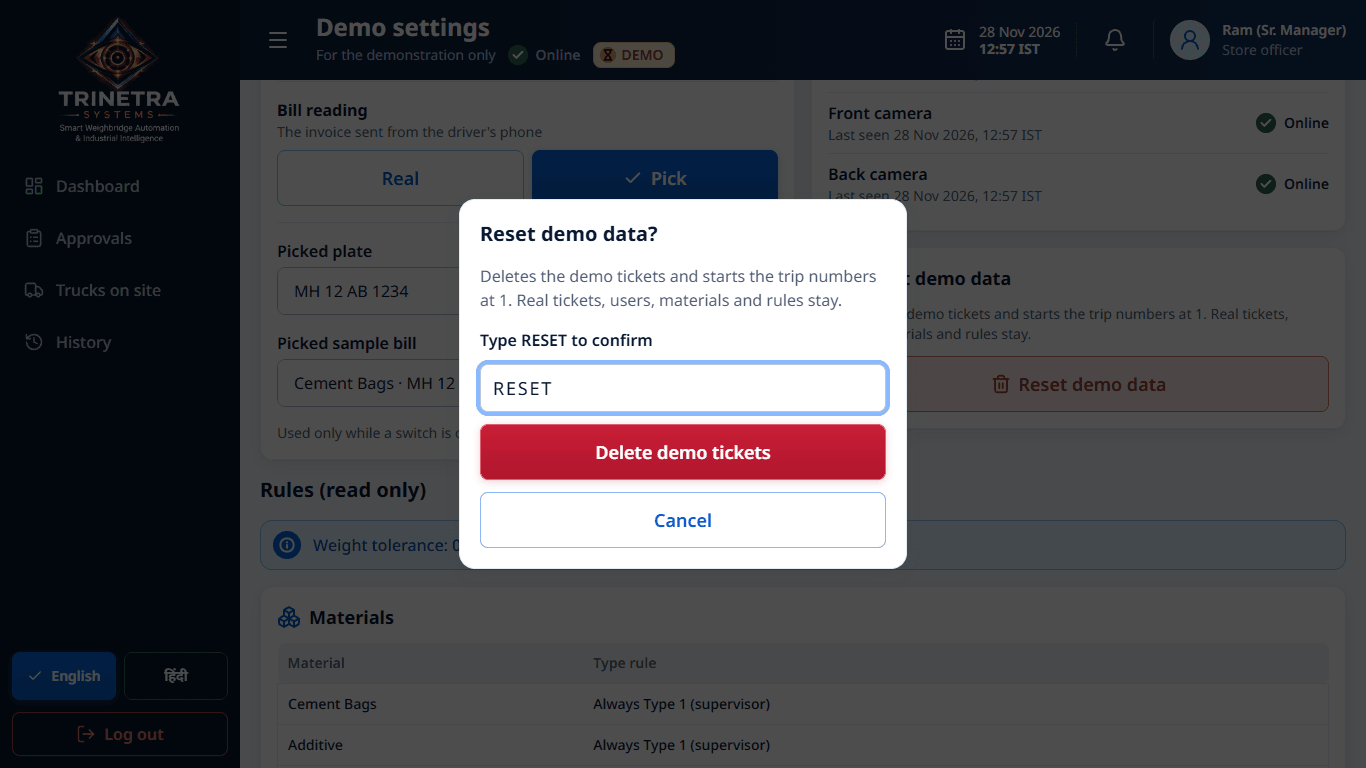
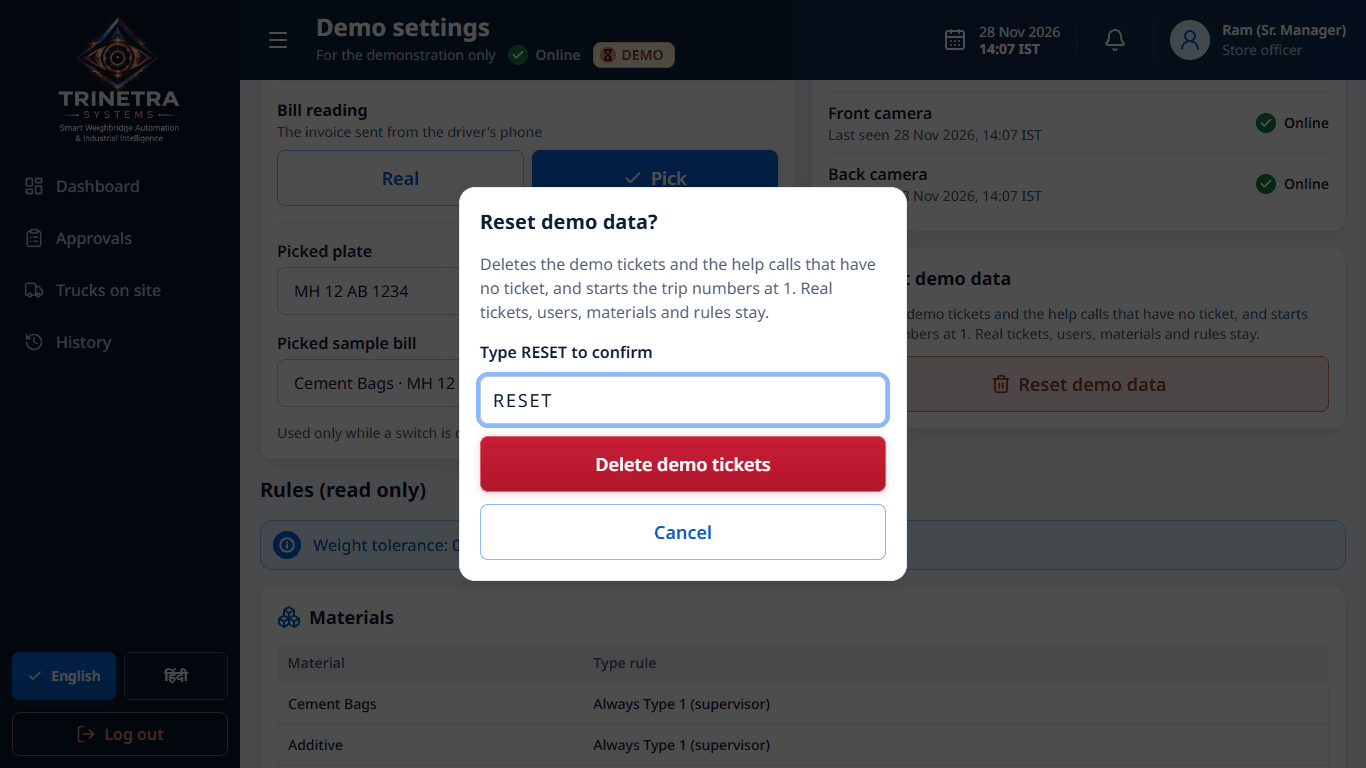
Reset demo data also deletes help calls that have no ticket
A call made before a plate was read belongs to no ticket, so it cannot be
tagged demo, and it stayed in the store officer's list after a reset. The
reset text on screen says so (English and Hindi).

Browser test helper: arrive() now waits for an empty bridge. It could open
the weighbridge while the previous test's truck was still driving off; the
screen then rightly reset when that truck had gone, undoing the tap on the
language.

Changed region(s): [[0.3382, 0.2188, 0.6764, 0.7812], [0.7379, 0.4062, 0.9531, 0.4375], [0.6764, 0.4062, 0.7072, 0.4375]]

diff --git a/tests/e2e/kiosk-world.ts b/tests/e2e/kiosk-world.ts
@@ -34,6 +34,7 @@ export class Weighbridge {
   private readonly model = new WeightModel();
   private readonly devices: SimDevice[] = [];
   private sender: NodeJS.Timeout | undefined;
+  private zerosSent = 0;
 
   start(): void {
     const url = `${BACKEND.replace("http", "ws")}/device`;
@@ -69,10 +70,16 @@ export class Weighbridge {
     this.devices.push(main, ...cameras);
     this.devices.forEach((device) => device.connect());
     this.model.leave(performance.now() - 60_000);
-    this.sender = setInterval(
-      () => main.send({ t: "w", ...this.model.read(performance.now()) }),
-      200,
-    );
+    this.sender = setInterval(() => {
+      const reading = this.model.read(performance.now());
+      main.send({ t: "w", ...reading });
+      this.zerosSent = reading.kg === 0 ? this.zerosSent + 1 : 0;
+    }, 200);
+  }
+
+  /** The backend has been told twice in a row that nothing is on the bridge. */
+  isEmpty(): boolean {
+    return this.zerosSent >= 2;
   }
 
   stop(): void {
@@ -312,6 +319,10 @@ async function atScreen(title: string, page: Page, run: () => Promise<void>) {
 
 /** A truck drives on: the screen wakes, and the driver chooses English. */
 export async function arrive(page: Page, bridge: Weighbridge, kg: number): Promise<void> {
+  // The truck of the test before may still be driving off. A screen opened then wakes for
+  // it, and resets under the driver's press when it has gone: wait for an empty bridge.
+  await expect.poll(() => bridge.isEmpty()).toBe(true);
+  await expect(page.getByTestId("bridge-status")).toContainText("Weighbridge ready");
   bridge.driveOn(kg);
   await expect(page.getByRole("button", { name: /^English/ }).first()).toBeVisible();
   await heading(page, "Language");

diff --git a/apps/server/src/tickets/demo-controls.ts b/apps/server/src/tickets/demo-controls.ts
@@ -7,7 +7,7 @@ import {
   type Room,
 } from "@trinetra/shared";
 import { SAMPLE_INVOICE_IDS } from "@trinetra/shared/seed";
-import { eq, inArray, sql } from "drizzle-orm";
+import { eq, inArray, isNull, sql } from "drizzle-orm";
 import type { FastifyInstance } from "fastify";
 import type { z } from "zod";
 import {
@@ -106,6 +106,9 @@ export async function changeDemoSettings(
  * Deletes the demo tickets with everything on them, and starts the trip numbers at 1
  * again. Real tickets are untouched, and ticket numbers are never used a second time.
  * Stored photo files stay: stored files are never removed.
+ *
+ * Help calls made before a ticket existed go too, waiting or answered. They belong to no
+ * ticket, so they cannot be tagged demo, and they would stay in the store officer's list.
  */
 export async function resetDemoData(app: FastifyInstance): Promise<{ deletedTickets: number }> {
   const deletedTickets = await app.db.transaction(async (tx) => {
@@ -126,6 +129,8 @@ export async function resetDemoData(app: FastifyInstance): Promise<{ deletedTick
       await tx.delete(photos).where(inArray(photos.ticketId, ids));
       await tx.delete(tickets).where(inArray(tickets.id, ids));
     }
+    // Only a help call can be without a ticket (the database checks it).
+    await tx.delete(approvals).where(isNull(approvals.ticketId));
     await saveSetting(tx, "trip_count_from", new Date().toISOString());
     return ids.length;
   });

diff --git a/apps/server/src/tickets/demo-controls.test.ts b/apps/server/src/tickets/demo-controls.test.ts
@@ -321,6 +321,29 @@ describe.skipIf(!testDatabaseUrl)("demo controls", { timeout: 30_000 }, () => {
       expect(after.ticketNo.endsWith("-0004")).toBe(true);
     });
 
+    it("removes help calls made before a ticket, but not one on a real ticket", async () => {
+      const callForHelp = async (body: object) => {
+        expect((await h.call("kiosk", "POST", "/api/help", body)).status).toBe(200);
+      };
+      // One that the store officer has answered, and one still waiting.
+      await callForHelp({});
+      const [answered] = await h.approvalRows();
+      await h.call("store", "POST", `/api/approvals/${answered!.id}/decide`, {
+        decision: "APPROVE",
+      });
+      await callForHelp({});
+      const real = await started();
+      await callForHelp({ ticketId: real });
+      expect((await h.approvalRows()).map((row) => row.ticketId)).toEqual([null, null, real]);
+
+      const response = await h.call("store", "POST", "/api/demo/reset");
+
+      expect(response.body).toEqual({ deletedTickets: 0 });
+      expect(await h.approvalRows()).toMatchObject([
+        { ticketId: real, kind: "DRIVER_HELP", status: "PENDING" },
+      ]);
+    });
+
     it("keeps the users and the master data, whoever resets", async () => {
       const counts = async () => {
         const result: Record<string, unknown> = {};

diff --git a/tests/e2e/manual-check-fixes.spec.ts b/tests/e2e/manual-check-fixes.spec.ts
@@ -92,8 +92,7 @@ test("the issues of the manual-style check stay fixed", async ({ page, browser }
   await home.goto("/store");
   await expect(home.getByTestId("connection")).toHaveText("Online");
   await expect(home.getByText("Tap the screen once")).toBeVisible();
-  // This truck's own request: an earlier test may have left a help call with no ticket,
-  // which "Reset demo data" does not delete.
+  // This truck's own request, whatever else is waiting.
   const mine = home
     .getByRole("table")
     .getByRole("row")

diff --git a/docs/PROGRESS.md b/docs/PROGRESS.md
@@ -387,6 +387,8 @@ Use two browser windows with **separate logins** (for example a normal and a pri
 
 ✅ Passed on 2026-11-28 **in the browser test only**: Playwright reads the address inside the slip's QR code at the real weighbridge screen, opens it in a second browser of 390×844 with no login, and sees the page change when the supervisor approves and after the second weighing. **No real phone has scanned a QR code.** The tests also cover the home page's three cards, wrong ticket addresses, the settings login and the supervisor being refused, each switch showing and hiding the DEMO badge on four open screens, and the reset with its typed word. All 53 browser tests, all six `pnpm journey` scenarios, typecheck, lint, format, the unit and API tests and the build passed. In the first full browser run one older test failed: it matched any "Open" link, and an earlier test leaves a help call with no ticket (which "Reset demo data" does not delete). It now opens its own truck's request. Pictures are in [screenshots/phase14](screenshots/phase14).
 
+**Fixed afterwards (2026-11-28):** "Reset demo data" now also deletes the help calls made before a ticket existed. The browser test that sometimes stayed on the language screen (here, and once in the manual-style check below this phase's work) was a fault in the test helper: it could open the weighbridge while the previous test's truck was still driving off. The weighbridge then rightly reset when that truck had gone, undoing the tap. `arrive()` now waits for an empty bridge.
+
 - **Not tried:** a real phone (scanning, printing or Save as PDF from the phone), a real printer. The print view was checked in Chrome's print mode at A4 width only.
 - **Not seen:** the usage warning from 80% on screen (the API tests cover the figures and the warning).
 - A ticket page address works for anyone who has it, and does not expire.

diff --git a/docs/HINDI_REVIEW.md b/docs/HINDI_REVIEW.md
@@ -693,7 +693,7 @@ New texts for the issues in [MANUAL_CHECK.md](MANUAL_CHECK.md). Not checked by a
 | `settings.lastSeen` | Last seen {time} | आखिरी बार {time} को दिखा |
 | `settings.neverSeen` | Not seen since the server started | सर्वर चालू होने के बाद से नहीं दिखा |
 | `settings.reset` | Reset demo data | डेमो डेटा रीसेट करें |
-| `settings.resetText` | Deletes the demo tickets and starts the trip numbers at 1. Real tickets, users, materials and rules stay. | डेमो टिकट मिट जाते हैं और ट्रिप नंबर 1 से शुरू होते हैं। असली टिकट, उपयोगकर्ता, सामग्री और नियम बने रहते हैं। |
+| `settings.resetText` | Deletes the demo tickets and the help calls that have no ticket, and starts the trip numbers at 1. Real tickets, users, materials and rules stay. | डेमो टिकट और बिना टिकट वाले मदद के बुलावे मिट जाते हैं, और ट्रिप नंबर 1 से शुरू होते हैं। असली टिकट, उपयोगकर्ता, सामग्री और नियम बने रहते हैं। |
 | `settings.resetTitle` | Reset demo data? | डेमो डेटा रीसेट करें? |
 | `settings.resetType` | Type {word} to confirm | पक्का करने के लिए {word} टाइप करें |
 | `settings.resetConfirm` | Delete demo tickets | डेमो टिकट मिटाएँ |

diff --git a/README.md b/README.md
@@ -179,7 +179,7 @@ A job abandons STARTED tickets with no activity for 10 minutes. The lights, buzz
 
 **Idempotency-Key:** any logged-in `POST`, `PATCH` or `PUT` may send this header. A repeat of a successful request gets the first answer again and nothing is done twice (kept in memory for 12 hours).
 
-**Demo routes:** the store officer uses them from the [demo settings page](#website). The helper scripts use the kiosk login: set `ADMIN_PIN` (6 to 12 digits) in `apps/server/.env`, restart the backend and send it in an `x-admin-pin` header. A simulated weight (`POST /api/demo/weight`) is only for the kiosk with the admin PIN. Tickets made while a demo switch is on are tagged demo, and only those are deleted by a reset.
+**Demo routes:** the store officer uses them from the [demo settings page](#website). The helper scripts use the kiosk login: set `ADMIN_PIN` (6 to 12 digits) in `apps/server/.env`, restart the backend and send it in an `x-admin-pin` header. A simulated weight (`POST /api/demo/weight`) is only for the kiosk with the admin PIN. Tickets made while a demo switch is on are tagged demo. A reset deletes only those tickets, and the help calls made before any ticket existed.
 
 ## Journeys
 

diff --git a/CLAUDE.md b/CLAUDE.md
@@ -108,7 +108,6 @@ Settle before the phases that need it:
 - **Open:** the backend keeps "truck on the bridge" and the plate reads in memory, so after a restart `truck:arrived` fires again (safe: it creates nothing) and the plate must be read again. Events missed while disconnected are not resent: pages reload over REST (`useOnReconnect`).
 - **Open:** logging out does not close the live connection of other open tabs; the server ends it when the 12 hour login expires. (Such a tab goes to the login when it next gets focus.)
 - **Open:** the kiosk's dialogs are not measured by the driver-rule check.
-- **Open:** "Reset demo data" does not delete help calls made before a ticket existed.
 - **To decide:** a visit that waits for a person now stays open until someone answers or cancels it, also overnight. While it is open, its plate cannot start a new ticket (the old one is carried on).
 - **Decided:** cancelling a visit does not block the plate (only a rejection does), also for a truck waiting for its supervisor or on HOLD.
 - **To decide:** should a supervisor's rejection become something the store officer can overrule? Today it is BLOCKED and for information only.

diff --git a/docs/DECISIONS.md b/docs/DECISIONS.md
@@ -260,3 +260,4 @@ One row per decision. All rows dated 2026-11-26 come from the [build plan](BUILD
 | 2026-11-28 | Usage meters count by UTC date, as the counters always have. Plate Recognizer: this month of 2,500. Gemini: today of 200, which is our own early-warning figure because Google states no fixed free limit. Both warn from 80% (2,000 and 160) | Phase 14 request |
 | 2026-11-28 | Device "last seen" is when the **real** board last sent something since the server started. A simulated weight does not count as the ESP32 | Phase 14 request |
 | 2026-11-28 | "Reset demo data" on the page needs the word RESET typed. It is the same reset as `pnpm office reset`; the typed word is checked by the page only | Phase 14 request |
+| 2026-11-28 | "Reset demo data" also deletes **every help call that has no ticket** (made before a plate was read), waiting or answered. Help calls on tickets go only with their demo ticket. Because such a call cannot be tagged demo, one made by a real driver is deleted too | They stayed in the store officer's list after a reset. Requested by the user |

diff --git a/docs/BUILD_PLAN.md b/docs/BUILD_PLAN.md
@@ -557,7 +557,7 @@ For the **store officer** (there is no admin role; the server checks the role).
 - A small **DEMO** badge on the weighbridge, supervisor and store pages while any demo replacement is on
 - **Usage:** Plate Recognizer calls this month (of 2,500) and Gemini calls today, with a warning from 80%
 - **Devices:** the main ESP32 and both cameras, with when each was last heard
-- **Reset demo data:** deletes demo tickets and resets trip counters; the word RESET must be typed. Users and master data are never touched
+- **Reset demo data:** deletes demo tickets and the help calls that have no ticket, and resets trip counters; the word RESET must be typed. Users and master data are never touched
 - The seeded rules, read-only: materials with their type rules, chainages and supervisors, unloading rules, tolerance
 
 Every ticket made while any switch is on Pick (or the weight is simulated) is tagged "demo". The simulated weight is not on this page: it needs the kiosk login and the admin PIN. Tare, test photos and voice switches are not built.
